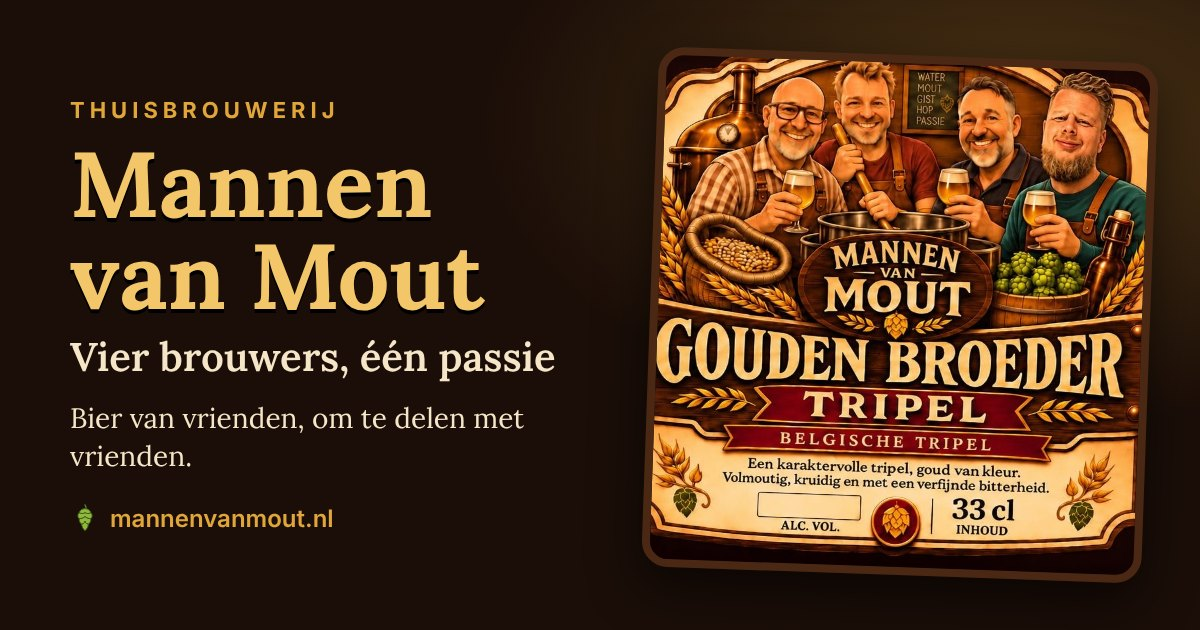
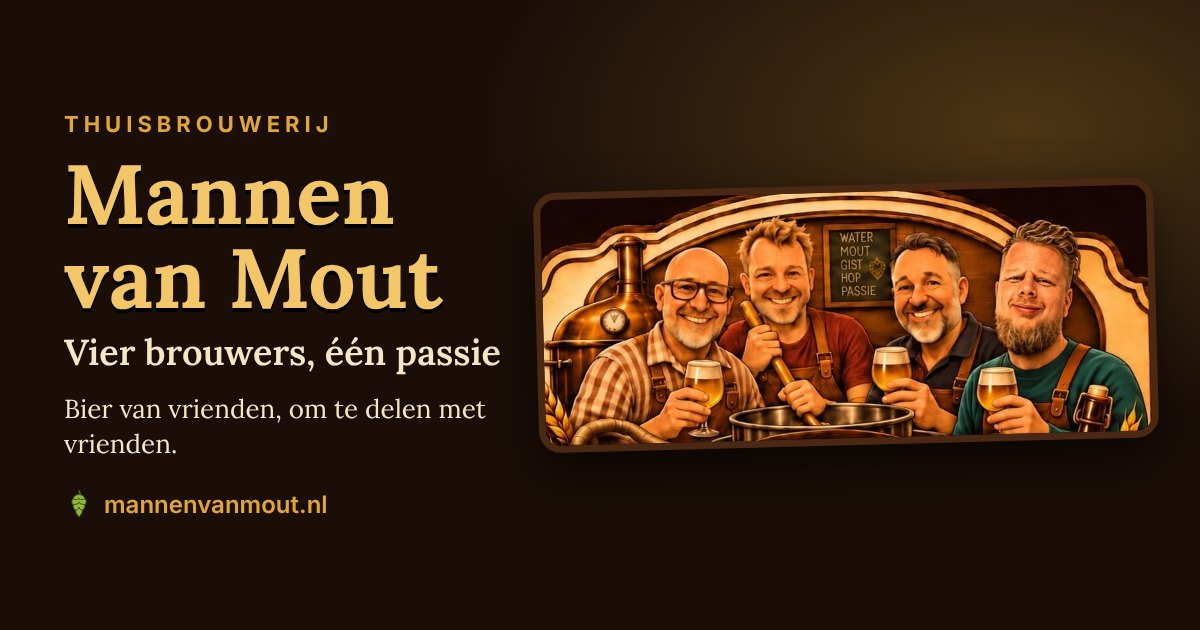
Nieuw etiket Gouden Broeder Tripel; link-preview toont alleen de vier brouwers
Claude-Session: https://claude.ai/code/session_01C3L5mvkgrAc1fwZViTEaaJ

diff --git a/index.html b/index.html
@@ -13,7 +13,7 @@
 <meta property="og:url" content="https://mannenvanmout.nl/">
 <meta property="og:title" content="Mannen van Mout – vier brouwers, één passie">
 <meta property="og:description" content="Vier vrienden, twee ketels en één passie: thuisgebrouwen bier met karakter. Bier van vrienden, om te delen met vrienden.">
-<meta property="og:image" content="https://mannenvanmout.nl/assets/og-image.jpg">
+<meta property="og:image" content="https://mannenvanmout.nl/assets/og-image.jpg?v=2">
 <meta property="og:image:width" content="1200">
 <meta property="og:image:height" content="630">
 <meta property="og:image:alt" content="Mannen van Mout met het etiket van de Gouden Broeder Tripel">
@@ -159,7 +159,7 @@
   </div>
 </footer>
 
-<script src="config.js?v=18"></script>
+<script src="config.js?v=19"></script>
 <script src="https://cdn.jsdelivr.net/npm/@supabase/supabase-js@2"></script>
 <script src="site.js?v=15"></script>
 <script src="leeftijd.js?v=11"></script>

diff --git a/404.html b/404.html
@@ -9,7 +9,7 @@
 <meta name="description" content="Deze pagina bestaat niet (meer).">
 <meta property="og:title" content="Mannen van Mout">
 <meta property="og:description" content="Vier brouwers, één passie. Thuisgebrouwen bieren met karakter.">
-<meta property="og:image" content="https://mannenvanmout.nl/assets/og-image.jpg">
+<meta property="og:image" content="https://mannenvanmout.nl/assets/og-image.jpg?v=2">
 <link rel="icon" href="/assets/hop.svg" type="image/svg+xml">
 <link rel="apple-touch-icon" href="/assets/apple-touch-icon.png">
 <link rel="preconnect" href="https://fonts.googleapis.com">

diff --git a/config.js b/config.js
@@ -131,8 +131,8 @@ window.MVM_CONFIG = {
       name: "Gouden Broeder Tripel",
       style: "Belgische tripel",
       abv: null,             // vul in zodra gemeten, bijv. 8.5
-      image: "assets/etiket-tripel-voor.jpg",
-      labelFull: "assets/etiket-tripel-volledig.jpg",
+      image: "assets/etiket-tripel-voor.jpg?v=2",
+      labelFull: "assets/etiket-tripel-volledig.jpg?v=2",
       description: "Een karaktervolle tripel, goud van kleur. Volmoutig, kruidig en met een verfijnde bitterheid."
     }
   ]

diff --git a/app.html b/app.html
@@ -31,7 +31,7 @@
   <div class="empty">Laden…</div>
 </main>
 
-<script src="config.js?v=18"></script>
+<script src="config.js?v=19"></script>
 <script src="https://cdn.jsdelivr.net/npm/@supabase/supabase-js@2"></script>
 <script src="importeren.js?v=5"></script>
 <script src="app.js?v=11"></script>

diff --git a/quiz.html b/quiz.html
@@ -58,7 +58,7 @@
   </div>
 </footer>
 
-<script src="config.js?v=18"></script>
+<script src="config.js?v=19"></script>
 <script src="quiz.js?v=5"></script>
 <script src="leeftijd.js?v=11"></script>
 </body>
